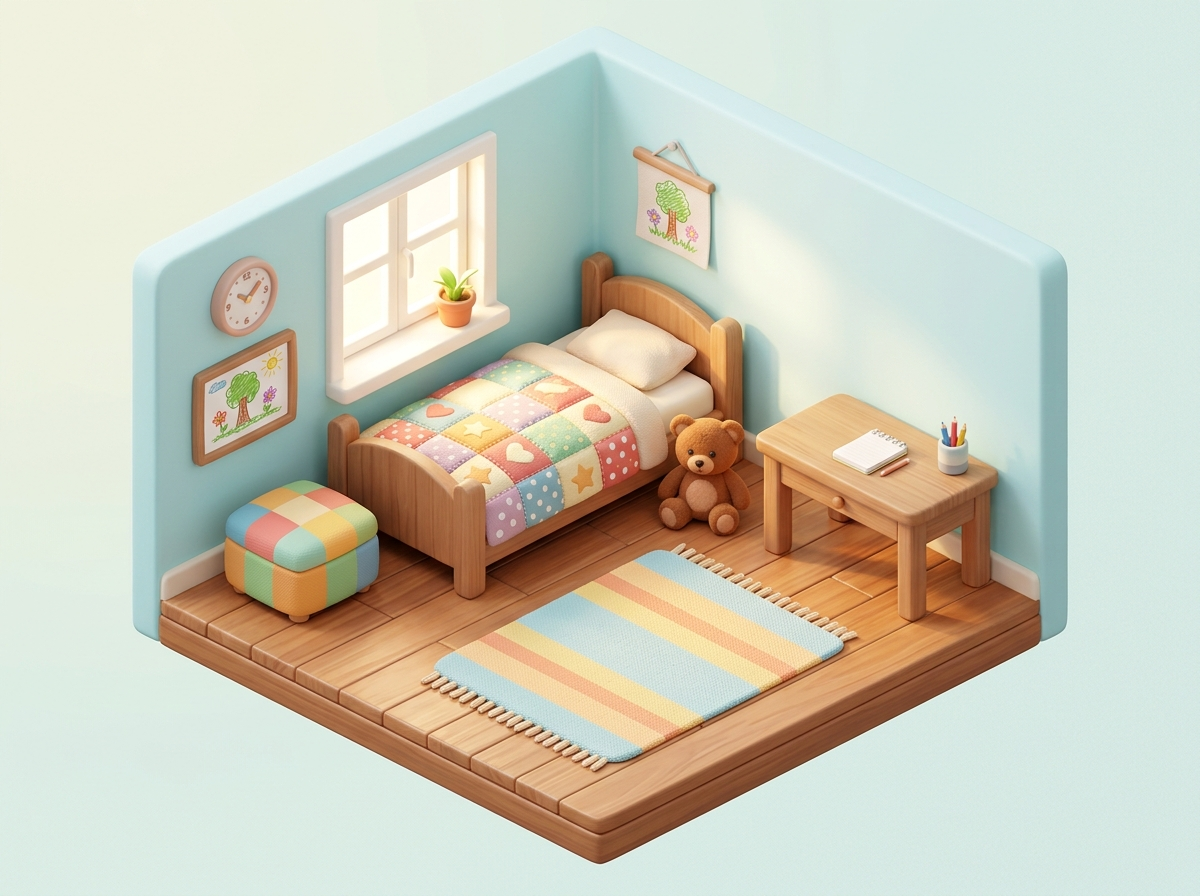
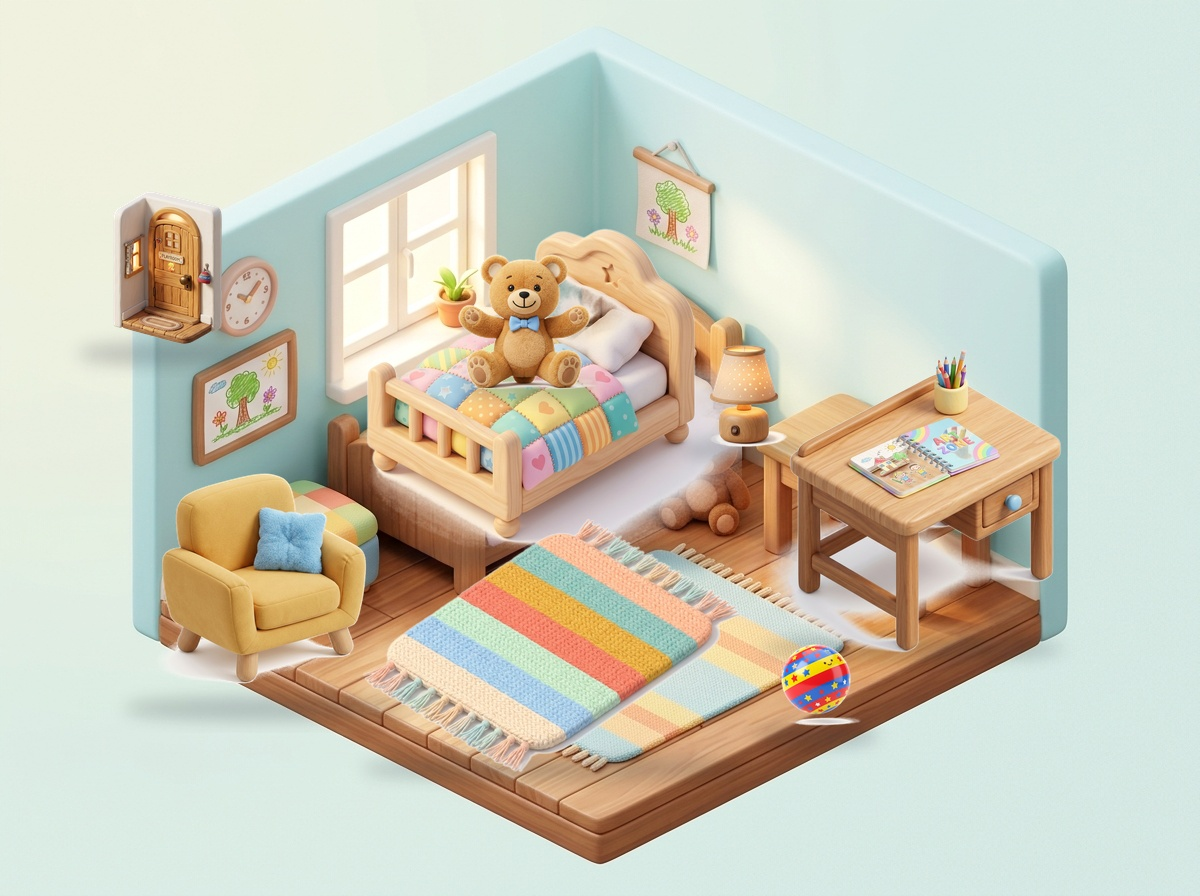
feat: align bedroom items with worldsData, create scene-artist agent and generate synchronized complete and shadowed scenes

Changed region(s): [[0.1233, 0.25, 0.8942, 0.875], [0.0617, 0.2188, 0.185, 0.4062], [0.3083, 0.8438, 0.3392, 0.875]]

diff --git a/src/data/worldsData.ts b/src/data/worldsData.ts
@@ -37,9 +37,9 @@ export const WORLDS_DATA: WorldRoom[] = [
           label: 'Cama Macia',
           description: 'No centro do quarto para bons sonhos',
           gridArea: 'bed',
-          x: 44,
+          x: 46,
           y: 44,
-          size: 92,
+          size: 90,
         },
       },
       {
@@ -58,9 +58,51 @@ export const WORLDS_DATA: WorldRoom[] = [
           label: 'Mesa de Desenho',
           description: 'Ao lado da parede para desenhar e brincar',
           gridArea: 'desk',
-          x: 74,
-          y: 58,
-          size: 78,
+          x: 76,
+          y: 56,
+          size: 76,
+        },
+      },
+      {
+        id: 'sofa',
+        name: 'sofá',
+        displayName: 'SOFÁ',
+        syllables: ['SO', 'FÁ'],
+        distractors: ['LU', 'PI', 'CA'],
+        hint: 'Assento fofinho com almofadas para sentar e ouvir historinhas.',
+        phoneticRule: '💡 O acento agudo no Á deixa a última sílaba forte: SO - FÁ!',
+        bnccCode: 'EF01LP06',
+        category: 'furniture',
+        icon: '🛋',
+        stickerImage: '/images/stickers/sofa.png',
+        roomPlacement: {
+          label: 'Sofazinho Aconchegante',
+          description: 'No cantinho para ler historinhas',
+          gridArea: 'sofa',
+          x: 22,
+          y: 64,
+          size: 68,
+        },
+      },
+      {
+        id: 'bola',
+        name: 'bola',
+        displayName: 'BOLA',
+        syllables: ['BO', 'LA'],
+        distractors: ['DA', 'ME', 'CO'],
+        hint: 'Redondinha, pula bastante no chão e diverte todo mundo.',
+        phoneticRule: '💡 B com O faz BÓ, L com A faz LÁ!',
+        bnccCode: 'EF01LP06',
+        category: 'toy',
+        icon: '⚽',
+        stickerImage: '/images/stickers/bola.png',
+        roomPlacement: {
+          label: 'Bola Colorida',
+          description: 'Perto do tapete para brincar',
+          gridArea: 'ball',
+          x: 68,
+          y: 76,
+          size: 38,
         },
       },
       {
@@ -69,7 +111,7 @@ export const WORLDS_DATA: WorldRoom[] = [
         displayName: 'URSO',
         syllables: ['UR', 'SO'],
         distractors: ['PA', 'TO', 'LE'],
-        hint: 'Um amigo de pelúcia bem fofinho que mora ao lado da cama.',
+        hint: 'Um amigo de pelúcia bem fofinho que mora na cama.',
         phoneticRule: '💡 Coda silábica: a letra R puxa o som da vogal (ÚR-SO)!',
         bnccCode: 'EF01LP09',
         category: 'toy',
@@ -77,11 +119,32 @@ export const WORLDS_DATA: WorldRoom[] = [
         stickerImage: '/images/stickers/urso.png',
         roomPlacement: {
           label: 'Urso de Pelúcia',
-          description: 'Ao lado da cama guardando os sonhos',
+          description: 'Em cima da cama protegendo o sono',
           gridArea: 'teddy',
-          x: 59,
-          y: 58,
-          size: 48,
+          x: 44,
+          y: 36,
+          size: 40,
+        },
+      },
+      {
+        id: 'porta',
+        name: 'porta',
+        displayName: 'PORTA',
+        syllables: ['POR', 'TA'],
+        distractors: ['FE', 'RA', 'SI'],
+        hint: 'Tem maçaneta, abre para receber os amigos e fecha na hora de dormir.',
+        phoneticRule: '💡 Som do R na garganta: P-O-R faz PÓR! POR - TA!',
+        bnccCode: 'EF01LP09',
+        category: 'structure',
+        icon: '🚪',
+        stickerImage: '/images/stickers/porta.png',
+        roomPlacement: {
+          label: 'Porta de Madeira',
+          description: 'A entrada do nosso quarto mágico',
+          gridArea: 'door',
+          x: 14,
+          y: 30,
+          size: 58,
         },
       },
       {
@@ -100,93 +163,30 @@ export const WORLDS_DATA: WorldRoom[] = [
           label: 'Tapete Listrado',
           description: 'No centro do chão de madeira',
           gridArea: 'rug',
-          x: 53,
-          y: 78,
-          size: 86,
+          x: 46,
+          y: 72,
+          size: 82,
         },
       },
       {
-        id: 'relogio',
-        name: 'relógio',
-        displayName: 'RELÓGIO',
-        syllables: ['RE', 'LÓ', 'GIO'],
-        distractors: ['BA', 'TA', 'MI'],
-        hint: 'Fica na parede marcando a hora de brincar e de dormir.',
-        phoneticRule: '💡 O acento agudo no Ó deixa o som aberto e forte: RE - LÓ - GIO!',
-        bnccCode: 'EF01LP06',
-        category: 'decoration',
-        icon: '⏰',
-        stickerImage: '/images/stickers/relogio.png',
-        roomPlacement: {
-          label: 'Relógio Redondo',
-          description: 'Na parede marcando as horas',
-          gridArea: 'clock',
-          x: 20,
-          y: 36,
-          size: 42,
-        },
-      },
-      {
-        id: 'quadro',
-        name: 'quadro',
-        displayName: 'QUADRO',
-        syllables: ['QUA', 'DRO'],
-        distractors: ['PO', 'TE', 'LA'],
-        hint: 'Pendurado na parede com um lindo desenho colorido.',
-        phoneticRule: '💡 QUA com som de KUA e DRO com o R intrometido: QUA - DRO!',
-        bnccCode: 'EF01LP08',
-        category: 'decoration',
-        icon: '🖼',
-        stickerImage: '/images/stickers/quadro.png',
-        roomPlacement: {
-          label: 'Quadro Alegre',
-          description: 'Desenho colorido na parede',
-          gridArea: 'frame',
-          x: 20,
-          y: 49,
-          size: 48,
-        },
-      },
-      {
-        id: 'janela',
-        name: 'janela',
-        displayName: 'JANELA',
-        syllables: ['JA', 'NE', 'LA'],
-        distractors: ['CO', 'BI', 'SU'],
-        hint: 'Abre de manhã para o solzinho e o vento fresco entrarem.',
-        phoneticRule: '💡 Família do J: J com A faz JÁ! JA - NE - LA!',
-        bnccCode: 'EF01LP06',
-        category: 'structure',
-        icon: '🪟',
-        stickerImage: '/images/stickers/janela.png',
-        roomPlacement: {
-          label: 'Janela Ensolarada',
-          description: 'Entrada de luz e ar fresco com vasinho de flor',
-          gridArea: 'window',
-          x: 34,
-          y: 32,
-          size: 70,
-        },
-      },
-      {
-        id: 'banco',
-        name: 'banco',
-        displayName: 'BANCO',
-        syllables: ['BAN', 'CO'],
-        distractors: ['FA', 'RO', 'PI'],
-        hint: 'Um assento fofinho e colorido para descansar os pezinhos.',
-        phoneticRule: '💡 O N fecha o som do A: BAN - CO!',
+        id: 'abajur',
+        name: 'abajur',
+        displayName: 'ABAJUR',
+        syllables: ['A', 'BA', 'JUR'],
+        distractors: ['SO', 'MI', 'RE'],
+        hint: 'Uma luzinha suave na mesinha para afastar o medo do escuro.',
+        phoneticRule: '💡 Vogal A sozinha na primeira sílaba: A - BA - JUR!',
         bnccCode: 'EF01LP09',
-        category: 'furniture',
-        icon: '🪑',
-        stickerImage: '/images/stickers/banco.png',
+        category: 'decoration',
+        icon: '💡',
+        stickerImage: '/images/stickers/abajur.png',
         roomPlacement: {
-          label: 'Banco / Puff Macio',
-          description: 'Puff fofo xadrez perto da cama',
-          gridArea: 'stool',
-          x: 25,
-          y: 68,
-          size: 56,
+          label: 'Abajur Estrelado',
+          description: 'Iluminando a mesinha de cabeceira',
+          gridArea: 'lamp',
+          x: 62,
+          y: 44,
+          size: 40,
         },
       },
     ],

diff --git a/src/components/ItemIllustration.tsx b/src/components/ItemIllustration.tsx
@@ -19,11 +19,10 @@ const IMAGE_MAP: Record<string, string> = {
   bolo: '/images/stickers/bolo.png',
   suco: '/images/stickers/suco.png',
   sopa: '/images/stickers/sopa.png',
-  // Preservados para outros cômodos e expansões
-  sofa: '/images/sofa.jpg',
-  bola: '/images/bola.jpg',
-  porta: '/images/porta.jpg',
-  abajur: '/images/abajur.jpg',
+  sofa: '/images/stickers/sofa.png',
+  bola: '/images/stickers/bola.png',
+  porta: '/images/stickers/porta.png',
+  abajur: '/images/stickers/abajur.png',
 };
 
 export const ItemIllustration: React.FC<ItemIllustrationProps> = ({

diff --git a/scripts/scene_generator_agent.py b/scripts/scene_generator_agent.py
@@ -1,0 +1,127 @@
+"""
+Agente de Arte e Cenários - Soletrando o Mundo
+Lê os itens obrigatórios do worldsData.ts e gera prompts padronizados no Design System do jogo:
+- 3D Isometric Miniature Diorama
+- Textura suave de argila/low-poly (soft clay)
+- Paleta pastel calma (baixa estimulação sensorial)
+- Presença obrigatória de 100% dos itens cadastrados no cômodo
+"""
+
+import os
+import re
+import sys
+
+WORLDS_DATA_PATH = os.path.join(os.path.dirname(__file__), "..", "src", "data", "worldsData.ts")
+
+# Art Bible / Design System Guidelines
+DESIGN_SYSTEM_STYLE = (
+    "Cozy, calm 3D isometric children miniature diorama room for an educational app. "
+    "Soft clay and stylized low-poly render aesthetic with gentle rounded corners. "
+    "Low-stimulation sensory design: warm pastel palette (soft butter yellow, sky blue, sage green, cream, light wood). "
+    "Gentle morning sunlight streaming through a cozy window, soft diffused ambient occlusion shadows, peaceful atmosphere, high quality 3d render."
+)
+
+ITEM_VISUAL_DESCRIPTIONS = {
+    # Quarto (Bedroom)
+    "cama": "a cozy wooden children bed with a colorful pastel patchwork quilt and fluffy white pillow in the room",
+    "mesa": "a cute wooden children study desk table with a little drawer and colorful drawing supplies on it",
+    "sofa": "a comfortable soft yellow/terracotta children armchair sofa with a cute pastel cushion",
+    "bola": "a colorful round toy bouncing ball on the floor",
+    "urso": "an adorable plush teddy bear with friendly button eyes sitting happily",
+    "porta": "a warm wooden children room door with a white frame and golden round door handle on the wall",
+    "tapete": "a soft woven striped oval rug resting on the clean wooden parquet floor",
+    "abajur": "a warm glowing bedside table lamp (abajur) with tiny star perforations on its shade",
+    
+    # Cozinha (Kitchen)
+    "bolo": "a delicious round birthday cake with pastel frosting, sprinkles and a candle on a plate",
+    "suco": "a cute orange fruit juice box or glass with a bent striped straw",
+    "sopa": "a warm ceramic bowl of vegetable soup with a small wooden spoon resting inside",
+    "maca": "a shiny red apple with a tiny green leaf on its stem",
+    "copo": "a clear drinking cup with fresh water beside the plate",
+    "prato": "a colorful ceramic dining plate placed neatly on the table",
+    "garfo": "a small friendly children dining fork beside the plate",
+    "banana": "a ripe yellow sweet banana ready for snack time",
+}
+
+def load_worlds_data():
+    if not os.path.exists(WORLDS_DATA_PATH):
+        print(f"Error: Could not find {WORLDS_DATA_PATH}")
+        return []
+
+    with open(WORLDS_DATA_PATH, "r", encoding="utf-8") as f:
+        content = f.read()
+
+    # Extrai blocos de cômodos
+    world_blocks = re.findall(r'id:\s*(\d+),\s*title:\s*[\'"]([^\'"]+)[\'"].*?items:\s*\[(.*?)\n\s*\]', content, re.DOTALL)
+    worlds = []
+
+    for wid, title, items_raw in world_blocks:
+        items = []
+        item_matches = re.finditer(r'id:\s*[\'"]([^\'"]+)[\'"].*?displayName:\s*[\'"]([^\'"]+)[\'"].*?hint:\s*[\'"]([^\'"]+)[\'"]', items_raw, re.DOTALL)
+        for im in item_matches:
+            items.append({
+                "id": im.group(1),
+                "displayName": im.group(2),
+                "hint": im.group(3)
+            })
+        worlds.append({
+            "id": int(wid),
+            "title": title,
+            "items": items
+        })
+
+    return worlds
+
+def generate_scene_prompts(world_id=1):
+    worlds = load_worlds_data()
+    target_world = next((w for w in worlds if w["id"] == world_id), None)
+    if not target_world:
+        print(f"World {world_id} not found!")
+        return None
+
+    items = target_world["items"]
+    item_ids = [it["id"] for it in items]
+    item_descriptions = []
+    for it in items:
+        iid = it["id"]
+        desc = ITEM_VISUAL_DESCRIPTIONS.get(iid, f"a cute {iid}")
+        item_descriptions.append(desc)
+
+    items_sentence = ", ".join(item_descriptions)
+
+    # 1. Prompt da Cena Completa (Full Scene)
+    full_prompt = (
+        f"{DESIGN_SYSTEM_STYLE} "
+        f"The room MUST visibly include all of the following items in harmonious positions: {items_sentence}. "
+        f"All items are colorful, clean, beautifully detailed, welcoming and easy for a 5-year-old child to spot."
+    )
+
+    # 2. Prompt da Cena Sombreada / Mistério (Shadowed Mystery Scene)
+    shadowed_prompt = (
+        f"Isometric view of the exact same room diorama, with the same walls, clean wooden parquet floor, and warm sunlight from the window. "
+        f"CRITICAL DETAIL: Every single one of the {len(items)} items ({', '.join(item_ids)}) is replaced by a dark neutral mystery silhouette/shadow shape in its exact position on the floor and walls, "
+        f"creating an inviting puzzle mystery for children to guess where each object belongs. "
+        f"Clean minimal, soft clay render style, soft ambient occlusion shadows, peaceful and safe atmosphere."
+    )
+
+    return {
+        "world_id": world_id,
+        "title": target_world["title"],
+        "items": item_ids,
+        "full_scene_prompt": full_prompt,
+        "shadowed_scene_prompt": shadowed_prompt
+    }
+
+if __name__ == "__main__":
+    world_id = int(sys.argv[1]) if len(sys.argv) > 1 else 1
+    prompts = generate_scene_prompts(world_id)
+    if prompts:
+        print(f"\\n=======================================================")
+        print(f" AGENTE DE CENÁRIOS: {prompts['title']} (Mundo {prompts['world_id']})")
+        print(f" Itens Obrigatórios ({len(prompts['items'])}): {', '.join(prompts['items'])}")
+        print(f"=======================================================\\n")
+        print("--- PROMPT CENA COMPLETA (FULL SCENE) ---")
+        print(prompts["full_scene_prompt"])
+        print("\\n--- PROMPT CENA SOMBREADA (SHADOWED SCENE) ---")
+        print(prompts["shadowed_scene_prompt"])
+        print("\\n=======================================================")
